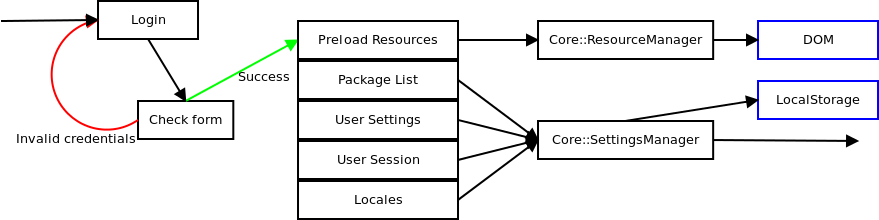
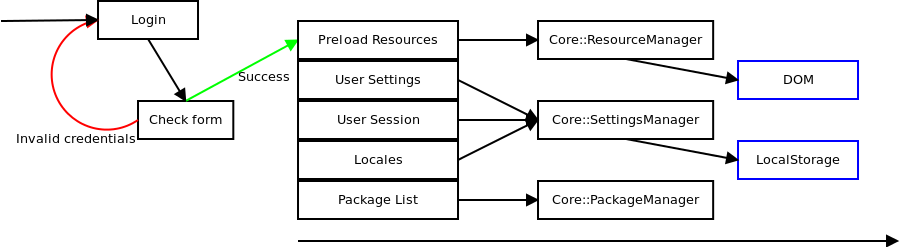
Package Managment and Documentation updates
* New diagrams
* Bugfixes in Vhosts
* VFS now has package.xml metadata file present
* header.php minor cleanup
* Added VFS URIs for Packages in header.php
* POST VFS Resource now supports user package resource fetching
* Package now has support for user package paths

diff --git a/src/ResourceManager.class.php b/src/ResourceManager.class.php
@@ -301,11 +301,12 @@ EOCSS;
    * Get a resource file (CSS or JS) [with compression]
    * @param  String   $file         Filename
    * @param  String   $package      Package name (If any)
+   * @param  bool     $udef         User VFS package ?
    * @param  bool     $compress     Enable Compression
    * @param  bool     $raw          Get in RAW state
    * @return Mixed
    */
-  public static function getResource($file, $package, $compress, $raw = false) {
+  public static function getResource($file, $package, $udef, $compress, $raw = false) {
     $content = "";
 
     $file     = preg_replace("/\.+/", ".", preg_replace("/[^a-zA-Z0-9\.\-\_]/", "", $file));
@@ -315,18 +316,29 @@ EOCSS;
     $mime     = "text/plain";
     $content  = null;
 
-    if ( preg_match("/\.js$/", $file) ) {
-      $type = "javascript";
-    } else if ( preg_match("/\.css$/", $file) ) {
-      $type = "stylesheet";
-    } else {
+    if ( $udef ) {
       $compress = false;
+    } else {
+      if ( preg_match("/\.js$/", $file) ) {
+        $type = "javascript";
+      } else if ( preg_match("/\.css$/", $file) ) {
+        $type = "stylesheet";
+      } else {
+        $compress = false;
+      }
     }
 
     $rpath = null;
     if ( $package ) {
-      $rpath  = $compress ? RESOURCE_PACKAGE_MIN : RESOURCE_PACKAGE;
-      $path   = sprintf($rpath, $package, $file);
+      if ( $udef ) {
+        if ( $user = Core::get()->getUser() ) {
+          $rpath  = sprintf(URI_VFS_USER_PACKAGES, $user->id) . "/%s/%s";
+          $path   = sprintf($rpath, $package, $file);
+        }
+      } else {
+        $rpath  = $compress ? RESOURCE_PACKAGE_MIN : RESOURCE_PACKAGE;
+        $path   = sprintf($rpath, $package, $file);
+      }
     } else {
       $rpath  = $compress ? RESOURCE_CORE_MIN : RESOURCE_CORE;
       $path   = sprintf($rpath, $file);

diff --git a/header.php b/header.php
@@ -96,21 +96,24 @@ define("PATH_VFS",             PATH . "/VFS");
 // Resources (Core, Package, etc.)
 //
 
-define("RESOURCE_CORE",         PATH_JSBASE . "/%s");
-define("RESOURCE_CORE_MIN",     PATH_JSBASE . "/_min/%s");
+define("RESOURCE_CORE",         PATH_JSBASE   . "/%s");
+define("RESOURCE_CORE_MIN",     PATH_JSBASE   . "/_min/%s");
 define("RESOURCE_PACKAGE",      PATH_PACKAGES . "/%s/%s");
 define("RESOURCE_PACKAGE_MIN",  PATH_PACKAGES . "/%s/_min/%s");
 define("RESOURCE_LOCALE",       PATH_JSLOCALE . "/%s");
 define("RESOURCE_LOCALE_MIN",   PATH_JSLOCALE . "/_min/%s");
-define("RESOURCE_THEME",        PATH_JSBASE . "/%s");
-define("RESOURCE_THEME_MIN",    PATH_JSBASE . "/_min/%s");
-define("RESOURCE_CURSOR",       PATH_JSBASE . "/%s");
-define("RESOURCE_CURSOR_MIN",   PATH_JSBASE . "/_min/%s");
+define("RESOURCE_THEME",        PATH_JSBASE   . "/%s");
+define("RESOURCE_THEME_MIN",    PATH_JSBASE   . "/_min/%s");
+define("RESOURCE_CURSOR",       PATH_JSBASE   . "/%s");
+define("RESOURCE_CURSOR_MIN",   PATH_JSBASE   . "/_min/%s");
 
 define("URI_SOUND",             "/sounds/%s");
 define("URI_FONT",              "/media/System/Fonts");
 define("URI_API_OPERATION",     "/API/%s");
 define("URI_PACKAGE_RESOURCE",  "/VFS/resource/%s/%s");
+define("URI_VFS_USER",          "/VFS/%d");
+define("URI_VFS_USER_METADATA", "/VFS/%d/packages.xml");
+define("URI_VFS_USER_PACKAGES", "/VFS/%d/Packages");
 
 //
 // Misc. files

diff --git a/src/Package.class.php b/src/Package.class.php
@@ -591,11 +591,9 @@ abstract class Package
    * @return String
    */
   protected static function _GetPackagePath(User $user = null, $system = true) {
-    /*
     if ( ($user instanceof User) && ($system === false) ) {
-      return PATH_HTTP . "/media/User/Packages";
+      return sprintf(URI_VFS_USER_PACKAGES, $user->id);
     }
-     */
     return PATH_PACKAGES;
   }
 
@@ -606,11 +604,9 @@ abstract class Package
    * @return String
    */
   protected static function _GetPackageBuild(User $user = null, $system = true) {
-    /*
     if ( ($user instanceof User) && ($system === false) ) {
-      return PATH_HTTP . "/media/User/packages.xml";
+      return sprintf(URI_VFS_USER_METADATA, $user->id);
     }
-     */
     return PACKAGE_BUILD;
   }
 

diff --git a/public_html/resource.php b/public_html/resource.php
@@ -74,7 +74,8 @@ if ( isset($_GET['cursor']) && !empty($_GET['cursor']) ) {
 
 if ( isset($_GET['resource']) && !empty($_GET['resource']) ) {
   $pkg  = isset($_GET['package']) ? $_GET['package'] : null;
-  if ( ($file = ResourceManager::getResource($_GET['resource'], $pkg, ENV_PRODUCTION)) === false ) {
+  $udef = isset($_GET['udef'])    ? $_GET['udef']    : false;
+  if ( ($file = ResourceManager::getResource($_GET['resource'], $pkg, $udef, ENV_PRODUCTION)) === false ) {
     header("HTTP/1.0 404 Not Found");
     exit;
   }
